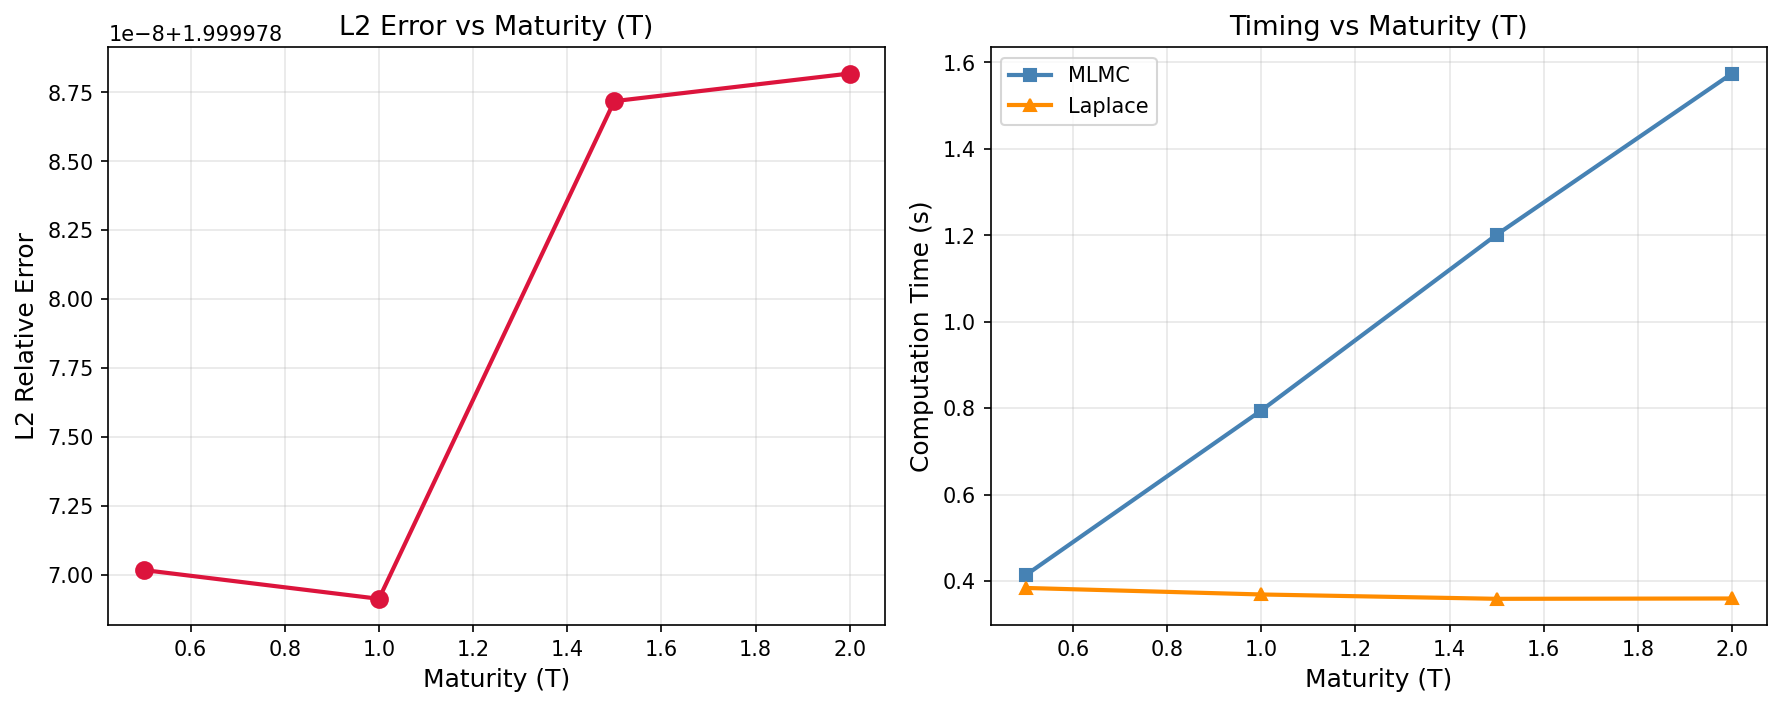
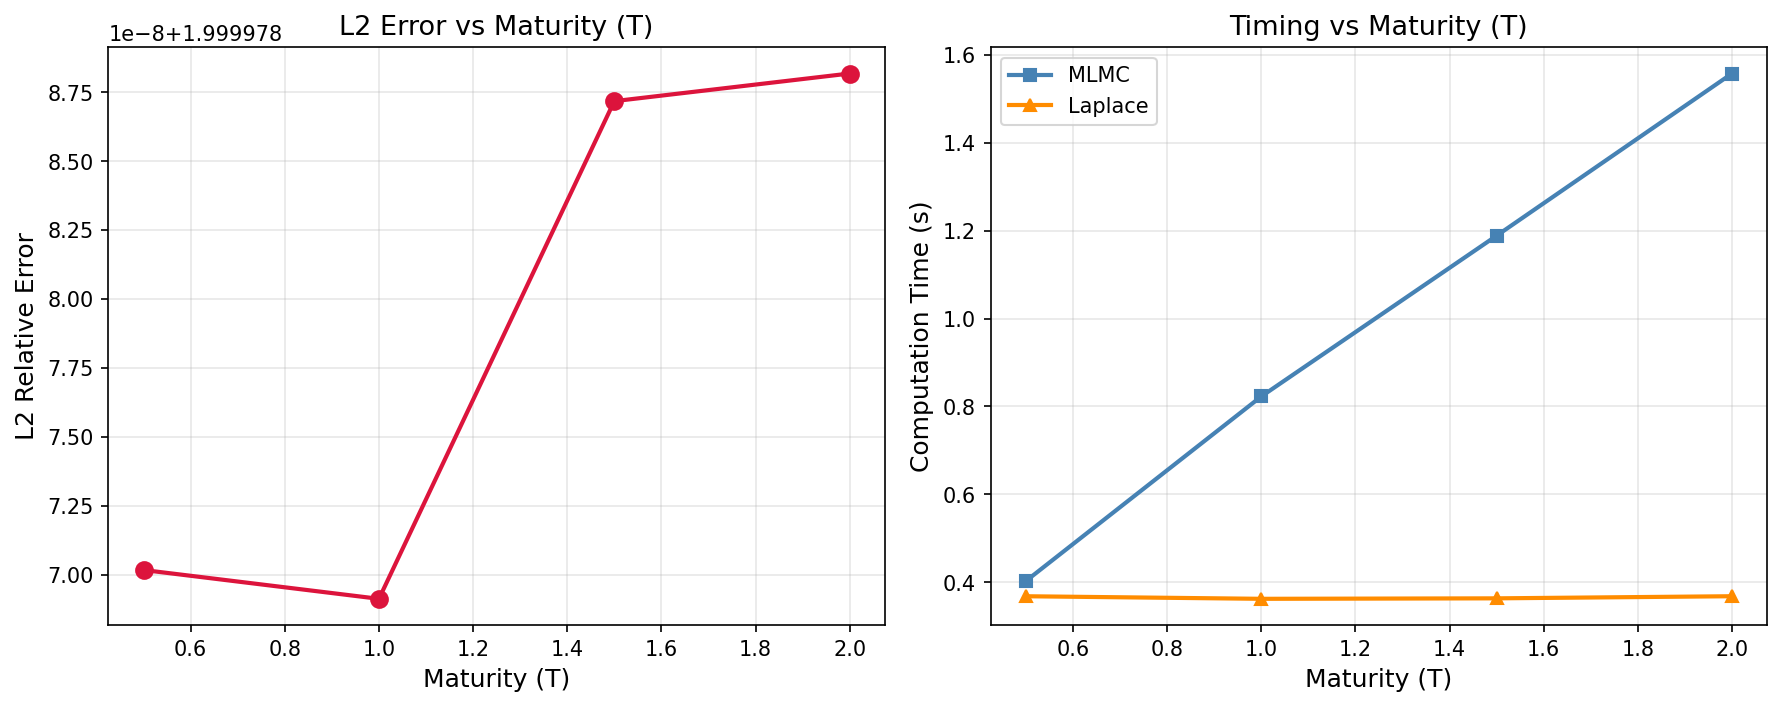
Results update

diff --git a/Comparison_Between_Methods/results/tables/exp5_parameter_sensitivity.md b/Comparison_Between_Methods/results/tables/exp5_parameter_sensitivity.md
@@ -4,39 +4,39 @@
 
 | Value | L2 Error | L∞ Error | MLMC Time (s) | Laplace Time (s) |
 |-------|----------|----------|---------------|------------------|
-| 0.05 | 2.0000 | 2.7046 | 0.42 | 0.38 |
-| 0.10 | 2.0000 | 2.7050 | 0.42 | 0.36 |
-| 0.15 | 2.0000 | 2.7064 | 0.42 | 0.35 |
-| 0.20 | 2.0000 | 2.7062 | 0.41 | 0.35 |
-| 0.25 | 2.0000 | 2.7080 | 0.41 | 0.35 |
-| 0.30 | 2.0000 | 2.7074 | 0.42 | 0.36 |
-| 0.40 | 2.0000 | 2.7153 | 0.42 | 0.34 |
-| 0.50 | 2.0000 | 2.7144 | 0.41 | 0.36 |
+| 0.05 | 2.0000 | 2.7046 | 0.40 | 0.36 |
+| 0.10 | 2.0000 | 2.7050 | 0.40 | 0.35 |
+| 0.15 | 2.0000 | 2.7064 | 0.40 | 0.36 |
+| 0.20 | 2.0000 | 2.7062 | 0.40 | 0.35 |
+| 0.25 | 2.0000 | 2.7080 | 0.41 | 0.37 |
+| 0.30 | 2.0000 | 2.7074 | 0.41 | 0.34 |
+| 0.40 | 2.0000 | 2.7153 | 0.40 | 0.34 |
+| 0.50 | 2.0000 | 2.7144 | 0.40 | 0.35 |
 
 ## Correlation ($\rho$)
 
 | Value | L2 Error | L∞ Error | MLMC Time (s) | Laplace Time (s) |
 |-------|----------|----------|---------------|------------------|
-| -0.50 | 2.0000 | 3.1469 | 0.41 | 0.47 |
-| -0.25 | 2.0000 | 2.8487 | 0.41 | 0.42 |
-| 0.00 | 2.0000 | 2.7709 | 0.42 | 0.40 |
-| 0.25 | 2.0000 | 2.7423 | 0.41 | 0.41 |
-| 0.50 | 2.0000 | 2.7284 | 0.41 | 0.39 |
-| 0.70 | 2.0000 | 2.7223 | 0.41 | 0.37 |
-| 0.80 | 2.0000 | 2.7197 | 0.41 | 0.39 |
-| 0.90 | 2.0000 | 2.7179 | 0.41 | 0.38 |
+| -0.50 | 2.0000 | 3.1469 | 0.40 | 0.43 |
+| -0.25 | 2.0000 | 2.8487 | 0.40 | 0.41 |
+| 0.00 | 2.0000 | 2.7709 | 0.40 | 0.39 |
+| 0.25 | 2.0000 | 2.7423 | 0.40 | 0.38 |
+| 0.50 | 2.0000 | 2.7284 | 0.39 | 0.37 |
+| 0.70 | 2.0000 | 2.7223 | 0.40 | 0.37 |
+| 0.80 | 2.0000 | 2.7197 | 0.40 | 0.37 |
+| 0.90 | 2.0000 | 2.7179 | 0.40 | 0.37 |
 
 ## Interest Rate (r)
 
 | Value | L2 Error | L∞ Error | MLMC Time (s) | Laplace Time (s) |
 |-------|----------|----------|---------------|------------------|
-| 0.00 | 2.0000 | 2.7281 | 0.41 | 0.40 |
-| 0.02 | 2.0000 | 2.7281 | 0.41 | 0.39 |
-| 0.05 | 2.0000 | 2.7284 | 0.41 | 0.40 |
-| 0.08 | 2.0000 | 2.7300 | 0.41 | 0.37 |
-| 0.10 | 2.0000 | 2.7322 | 0.40 | 0.38 |
-| 0.12 | 2.0000 | 2.7322 | 0.41 | 0.37 |
-| 0.15 | 2.0000 | 2.7337 | 0.41 | 0.37 |
+| 0.00 | 2.0000 | 2.7281 | 0.40 | 0.37 |
+| 0.02 | 2.0000 | 2.7281 | 0.41 | 0.37 |
+| 0.05 | 2.0000 | 2.7284 | 0.39 | 0.40 |
+| 0.08 | 2.0000 | 2.7300 | 0.40 | 0.37 |
+| 0.10 | 2.0000 | 2.7322 | 0.40 | 0.37 |
+| 0.12 | 2.0000 | 2.7322 | 0.40 | 0.37 |
+| 0.15 | 2.0000 | 2.7337 | 0.39 | 0.37 |
 
 ## Maturity (T)
 
@@ -44,21 +44,21 @@
 |-------|----------|----------|---------------|------------------|
 | 0.10 | FAILED | - | - | - |
 | 0.25 | FAILED | - | - | - |
-| 0.50 | 2.0000 | 2.7284 | 0.41 | 0.38 |
+| 0.50 | 2.0000 | 2.7284 | 0.40 | 0.37 |
 | 0.75 | FAILED | - | - | - |
-| 1.00 | 2.0000 | 2.7302 | 0.79 | 0.37 |
-| 1.50 | 2.0000 | 2.7318 | 1.20 | 0.36 |
-| 2.00 | 2.0000 | 2.7335 | 1.57 | 0.36 |
+| 1.00 | 2.0000 | 2.7302 | 0.82 | 0.36 |
+| 1.50 | 2.0000 | 2.7318 | 1.19 | 0.36 |
+| 2.00 | 2.0000 | 2.7335 | 1.56 | 0.37 |
 
 ## Moneyness (K/S₀)
 
 | Value | L2 Error | L∞ Error | MLMC Time (s) | Laplace Time (s) |
 |-------|----------|----------|---------------|------------------|
-| 0.80 | 2.0000 | 2.7284 | 0.40 | 0.37 |
-| 0.90 | 2.0000 | 2.7284 | 0.40 | 0.37 |
-| 0.95 | 2.0000 | 2.7284 | 0.40 | 0.38 |
-| 1.00 | 2.0000 | 2.7284 | 0.40 | 0.37 |
-| 1.05 | 2.0000 | 2.7284 | 0.41 | 0.38 |
+| 0.80 | 2.0000 | 2.7284 | 0.41 | 0.37 |
+| 0.90 | 2.0000 | 2.7284 | 0.39 | 0.37 |
+| 0.95 | 2.0000 | 2.7284 | 0.40 | 0.37 |
+| 1.00 | 2.0000 | 2.7284 | 0.41 | 0.39 |
+| 1.05 | 2.0000 | 2.7284 | 0.40 | 0.37 |
 | 1.10 | 2.0000 | 2.7284 | 0.41 | 0.37 |
 | 1.20 | 2.0000 | 2.7284 | 0.41 | 0.37 |
 

diff --git a/Comparison_Between_Methods/results/tables/exp3_dimension_scaling.md b/Comparison_Between_Methods/results/tables/exp3_dimension_scaling.md
@@ -4,10 +4,10 @@
 
 | d | MLMC Time (s) | Laplace Time (s) | L2 Error | L∞ Error |
 |---|---------------|------------------|----------|----------|
-| 2 | 0.40 | 0.59 | 2.0000 | 2.7308 |
-| 3 | 0.41 | 1.26 | 2.0000 | 2.7155 |
-| 5 | 0.46 | 2.95 | 2.0000 | 2.5053 |
-| 10 | 0.52 | 9.80 | 2.0000 | 2.3776 |
+| 2 | 0.41 | 0.59 | 2.0000 | 2.7308 |
+| 3 | 0.43 | 1.27 | 2.0000 | 2.7155 |
+| 5 | 0.46 | 2.85 | 2.0000 | 2.5053 |
+| 10 | 0.52 | 9.56 | 2.0000 | 2.3776 |
 
 ## Key Observations
 

diff --git a/Comparison_Between_Methods/results/tables/exp2_convergence_stats.md b/Comparison_Between_Methods/results/tables/exp2_convergence_stats.md
@@ -9,7 +9,7 @@
 | Std L2 error | 0.000000 |
 | Final running avg L2 | 0.999999 |
 | Mean time per run | 0.42 s |
-| Total computation time | 8.4 s |
+| Total computation time | 8.3 s |
 
 ## Running Average L2 Errors
 
